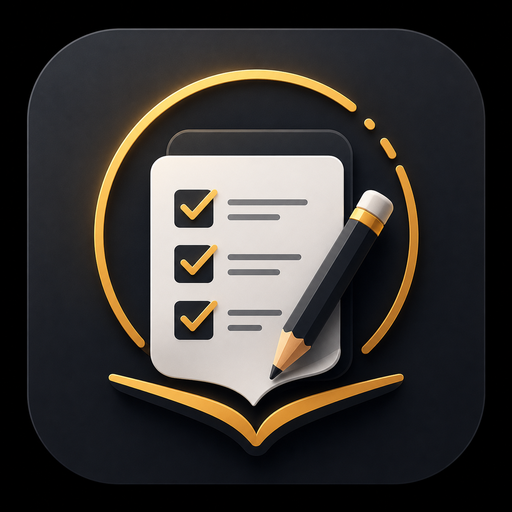
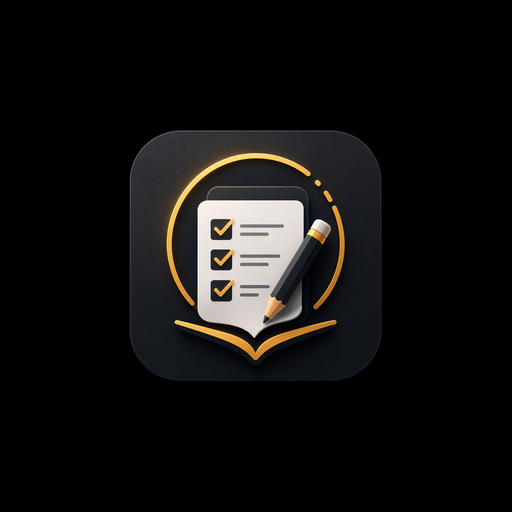
Add files via upload

diff --git a/sw.js b/sw.js
@@ -1,5 +1,12 @@
 // sw.js — แคชไฟล์หลักของแอปไว้ใช้งานออฟไลน์หลังโหลดครั้งแรก
-const CACHE_NAME = 'police-prep-cache-v1';
+//
+// สำคัญ: ทุกครั้งที่แก้ไข/อัปเดตไฟล์ในแอป (app.js, data.js, ไอคอน ฯลฯ) ต้อง
+// เปลี่ยนเลขท้าย CACHE_NAME (เช่น v1 -> v2) ทุกครั้ง ไม่งั้นผู้ใช้ที่ติดตั้งแอปไปแล้ว
+// จะไม่มีวันได้รับไฟล์ใหม่เลย เพราะกลยุทธ์ cache-first จะเสิร์ฟไฟล์เก่าที่แคชไว้ซ้ำตลอดไป
+// (นี่คือสาเหตุหลักที่ไอคอนใหม่ไม่อัปเดตให้ผู้ใช้เดิม)
+const CACHE_VERSION = 'v2';
+const CACHE_NAME = `police-prep-cache-${CACHE_VERSION}`;
+
 const APP_SHELL = [
   './',
   './index.html',
@@ -8,15 +15,27 @@ const APP_SHELL = [
   './exam-data.js',
   './exam-generators.js',
   './manifest.json',
+  './icon-180.png',
   './icon-192.png',
-  './icon-512.png'
+  './icon-512.png',
+  './icon-512-maskable.png'
 ];
+
+// ไฟล์แกนของแอปที่อัปเดตบ่อย: ใช้ network-first เพื่อให้ผู้ใช้ได้โค้ด/ข้อมูลล่าสุดทันทีที่ออนไลน์
+const NETWORK_FIRST = new Set([
+  './', './index.html', './app.js', './data.js', './exam-data.js', './exam-generators.js', './manifest.json'
+]);
+
+function isNetworkFirst(pathname) {
+  const file = '.' + pathname.substring(pathname.lastIndexOf('/'));
+  return NETWORK_FIRST.has(file) || pathname.endsWith('/') || pathname.endsWith('/index.html');
+}
 
 self.addEventListener('install', (event) => {
   event.waitUntil(
     caches.open(CACHE_NAME)
       .then((cache) => cache.addAll(APP_SHELL))
-      .catch(() => { /* ไม่ต้อง fail การติดตั้งถ้าบางไฟล์แคชไม่ได้ (เช่น ยังไม่มี data.js) */ })
+      .catch(() => { /* ไม่ต้อง fail การติดตั้งถ้าบางไฟล์แคชไม่ได้ */ })
   );
   self.skipWaiting();
 });
@@ -30,9 +49,28 @@ self.addEventListener('activate', (event) => {
   self.clients.claim();
 });
 
-// กลยุทธ์: cache-first สำหรับไฟล์ในแอป, ตกไป network ถ้าไม่เจอในแคช (เช่น Google Fonts ครั้งแรก)
 self.addEventListener('fetch', (event) => {
   if (event.request.method !== 'GET') return;
+  const url = new URL(event.request.url);
+  if (url.origin !== self.location.origin) return; // ปล่อยของนอกโดเมน (เช่น Google Fonts) ผ่านตามปกติ
+
+  if (isNetworkFirst(url.pathname)) {
+    // network-first: พยายามโหลดของใหม่ก่อนเสมอเมื่อออนไลน์ ตกไปแคชเฉพาะตอนออฟไลน์/เน็ตล่ม
+    event.respondWith(
+      fetch(event.request)
+        .then((res) => {
+          if (res && res.status === 200) {
+            const resClone = res.clone();
+            caches.open(CACHE_NAME).then((cache) => cache.put(event.request, resClone));
+          }
+          return res;
+        })
+        .catch(() => caches.match(event.request))
+    );
+    return;
+  }
+
+  // ไฟล์สแตติก (ไอคอน ฯลฯ): cache-first เพื่อความเร็ว/ออฟไลน์
   event.respondWith(
     caches.match(event.request).then((cached) => {
       if (cached) return cached;

diff --git a/index.html b/index.html
@@ -37,12 +37,21 @@
     --red:#C6482A; --green:#3F8F5F; --blue:#2E76B5; --purple:#6E5DC6;
   }
   *{box-sizing:border-box;}
+  /* ---------- ป้องกันจอขาวกระพริบตอนเลื่อนเร็ว/เด้งขอบ (iOS rubber-band / Android overscroll glow) ----------
+     ถ้าไม่ตั้ง background ให้ <html> เบราว์เซอร์จะโชว์พื้นขาวเริ่มต้นให้เห็นแวบ ๆ ตรงขอบตอนเด้งกลับ
+     overscroll-behavior-y ช่วยตัดพฤติกรรมเด้ง/รีเฟรชที่ลากเนื้อหาหลุดจากพื้นหลังที่ทาสีไว้ ---------- */
+  html{
+    background:var(--bg);
+    height:100%;
+    overscroll-behavior-y:none;
+  }
   body{
     margin:0;
     font-family:'Kanit',sans-serif;
     background:radial-gradient(circle at 15% 0%, var(--bg-grad), var(--bg) 60%);
     color:var(--ink); min-height:100vh; padding:12px 12px calc(78px + env(safe-area-inset-bottom));
     transition:background-color .2s, color .2s;
+    overscroll-behavior-y:none;
   }
   /* หมายเหตุ: ใส่ filter (ปรับความสว่าง) ไว้ที่ .wrap แทน body โดยตั้งใจ —
      เพราะ CSS filter บนบรรพบุรุษจะสร้าง containing block ใหม่ ทำให้ position:fixed
